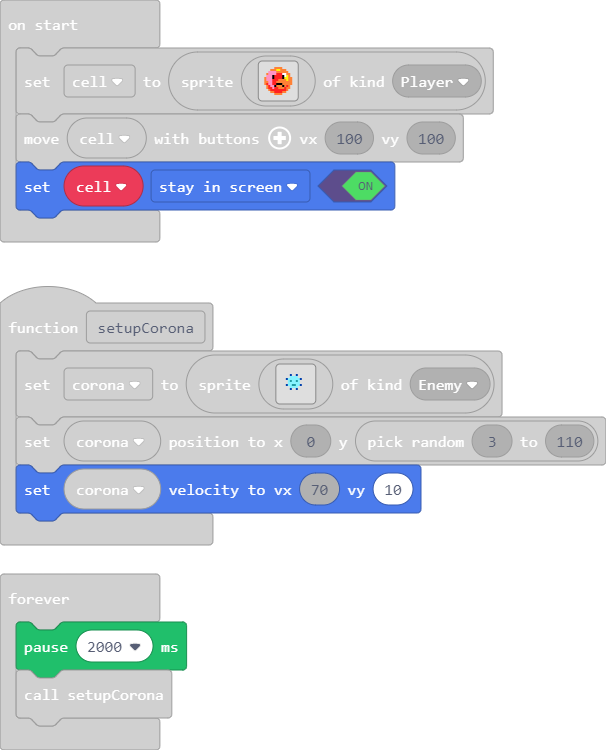
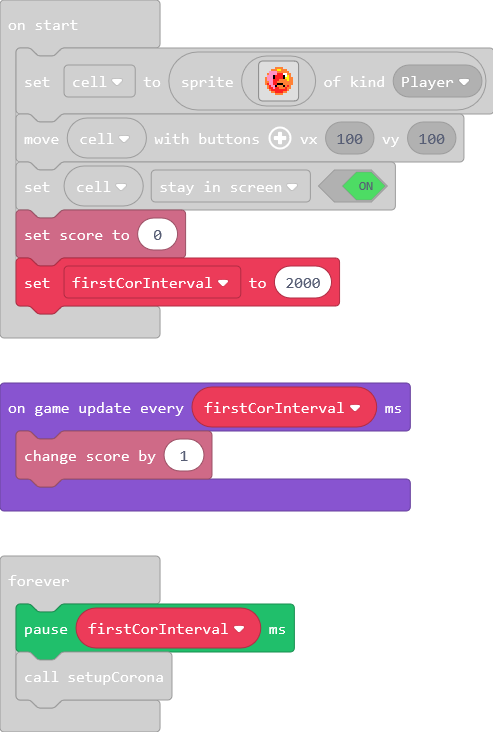
add scoring

diff --git a/main.ts b/main.ts
@@ -44,7 +44,12 @@ let cell = sprites.create(img`
 `, SpriteKind.Player)
 controller.moveSprite(cell, 100, 100)
 cell.setFlag(SpriteFlag.StayInScreen, true)
+info.setScore(0)
+let firstCorInterval = 2000
+game.onUpdateInterval(firstCorInterval, function () {
+    info.changeScoreBy(1)
+})
 forever(function () {
-    pause(2000)
+    pause(firstCorInterval)
     setupCorona()
 })
